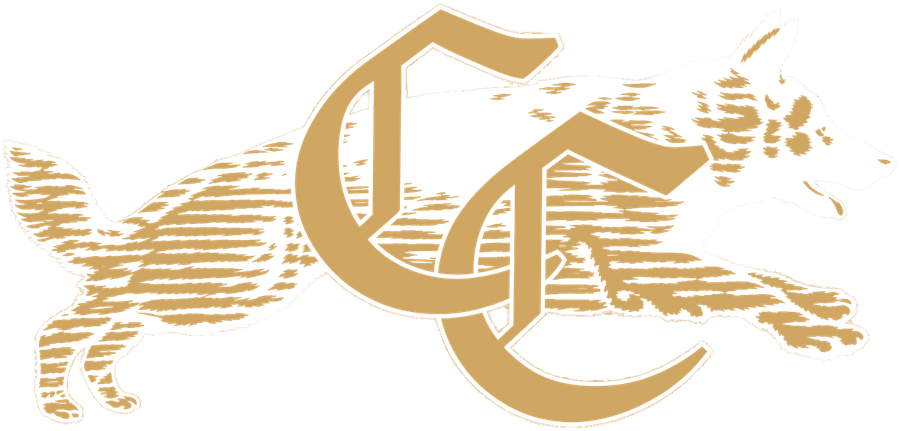
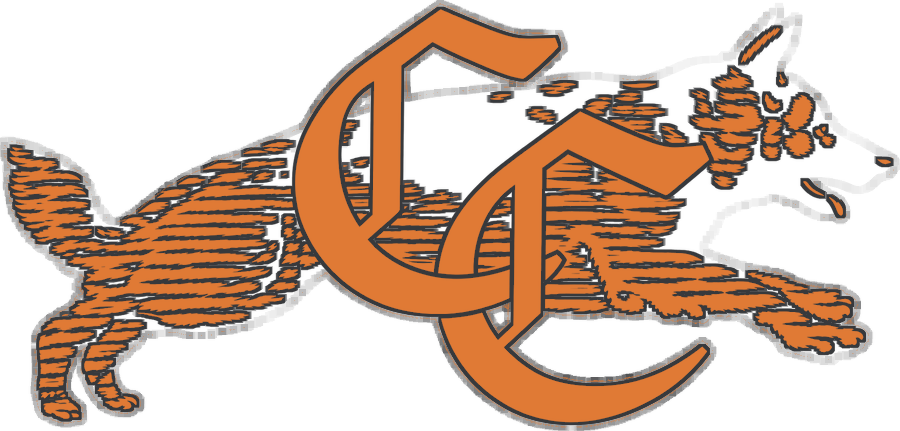
Show the hero shepherd in solid orange with dark backing, not as a faded shadow.

diff --git a/src/app/globals.css b/src/app/globals.css
@@ -406,12 +406,10 @@ body::after {
   width: auto;
   object-fit: contain;
   object-position: center;
-  mix-blend-mode: lighten;
-  opacity: 0.94;
-  filter: sepia(0.45) saturate(2.4) hue-rotate(352deg) brightness(1.06);
+  opacity: 1;
 }
 
-/* ---------- Hero shepherd shadow ---------- */
+/* ---------- Hero shepherd graphic ---------- */
 .hero-shadow {
   position: absolute;
   pointer-events: none;
@@ -421,19 +419,18 @@ body::after {
   top: 52%;
   width: min(40rem, 48%);
   transform: translateY(-50%);
-  opacity: 0.5;
   z-index: 0;
   -webkit-mask-image: linear-gradient(
     to right,
     transparent 0%,
-    rgba(0, 0, 0, 0.55) 12%,
-    #000 28%
+    rgba(0, 0, 0, 0.35) 10%,
+    #000 22%
   );
   mask-image: linear-gradient(
     to right,
     transparent 0%,
-    rgba(0, 0, 0, 0.55) 12%,
-    #000 28%
+    rgba(0, 0, 0, 0.35) 10%,
+    #000 22%
   );
 }
 
@@ -441,7 +438,6 @@ body::after {
   display: block;
   width: 100%;
   height: auto;
-  filter: sepia(0.45) saturate(2.4) hue-rotate(352deg) brightness(1.06);
 }
 
 @media (max-width: 900px) {
@@ -449,18 +445,17 @@ body::after {
     left: auto;
     right: 0;
     width: min(34rem, 68%);
-    opacity: 0.42;
     -webkit-mask-image: linear-gradient(
       to right,
       transparent 0%,
-      rgba(0, 0, 0, 0.4) 18%,
-      #000 42%
+      rgba(0, 0, 0, 0.3) 14%,
+      #000 32%
     );
     mask-image: linear-gradient(
       to right,
       transparent 0%,
-      rgba(0, 0, 0, 0.4) 18%,
-      #000 42%
+      rgba(0, 0, 0, 0.3) 14%,
+      #000 32%
     );
   }
 }
@@ -471,19 +466,18 @@ body::after {
     right: 0;
     width: min(28rem, 100%);
     top: 68%;
-    opacity: 0.36;
     transform: translateY(-42%);
     -webkit-mask-image: linear-gradient(
       to bottom,
       transparent 0%,
-      rgba(0, 0, 0, 0.35) 22%,
-      #000 48%
+      rgba(0, 0, 0, 0.25) 18%,
+      #000 40%
     );
     mask-image: linear-gradient(
       to bottom,
       transparent 0%,
-      rgba(0, 0, 0, 0.35) 22%,
-      #000 48%
+      rgba(0, 0, 0, 0.25) 18%,
+      #000 40%
     );
   }
 }
